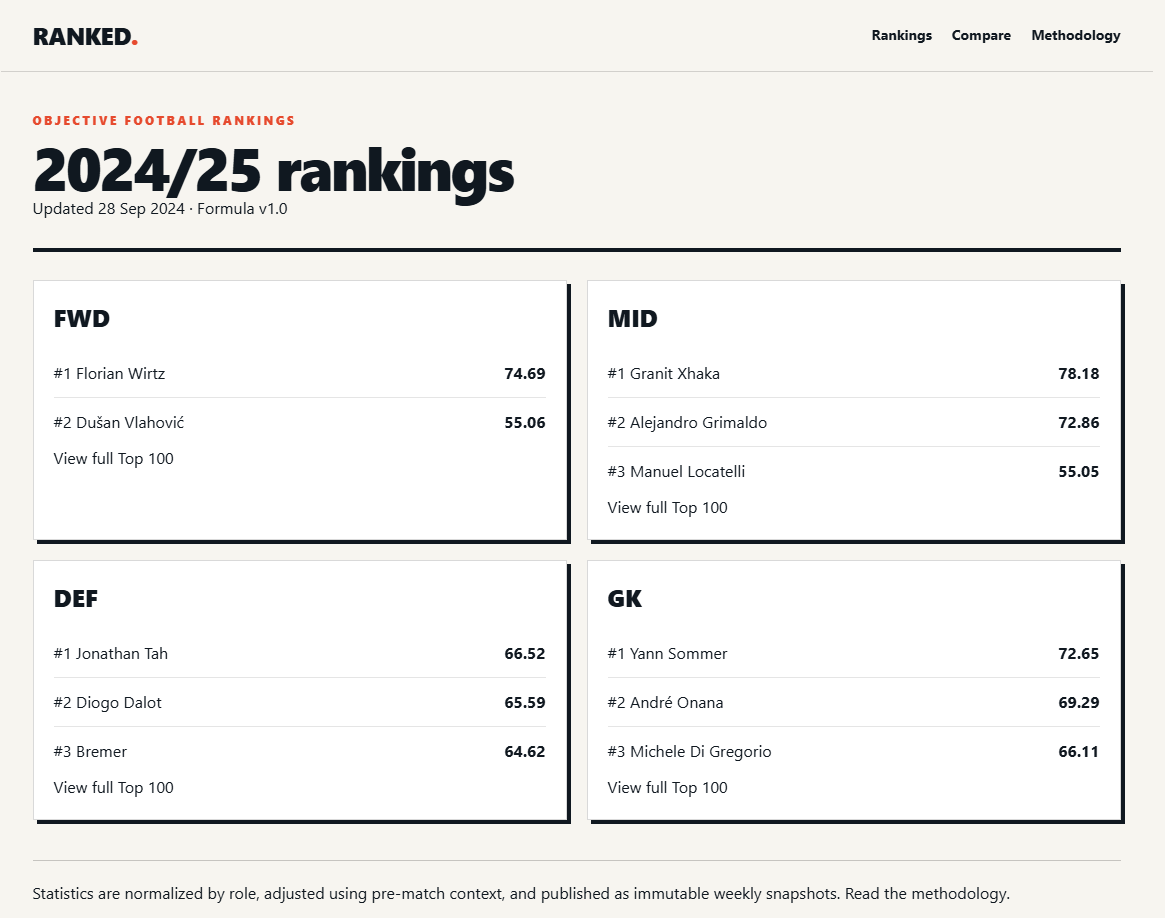
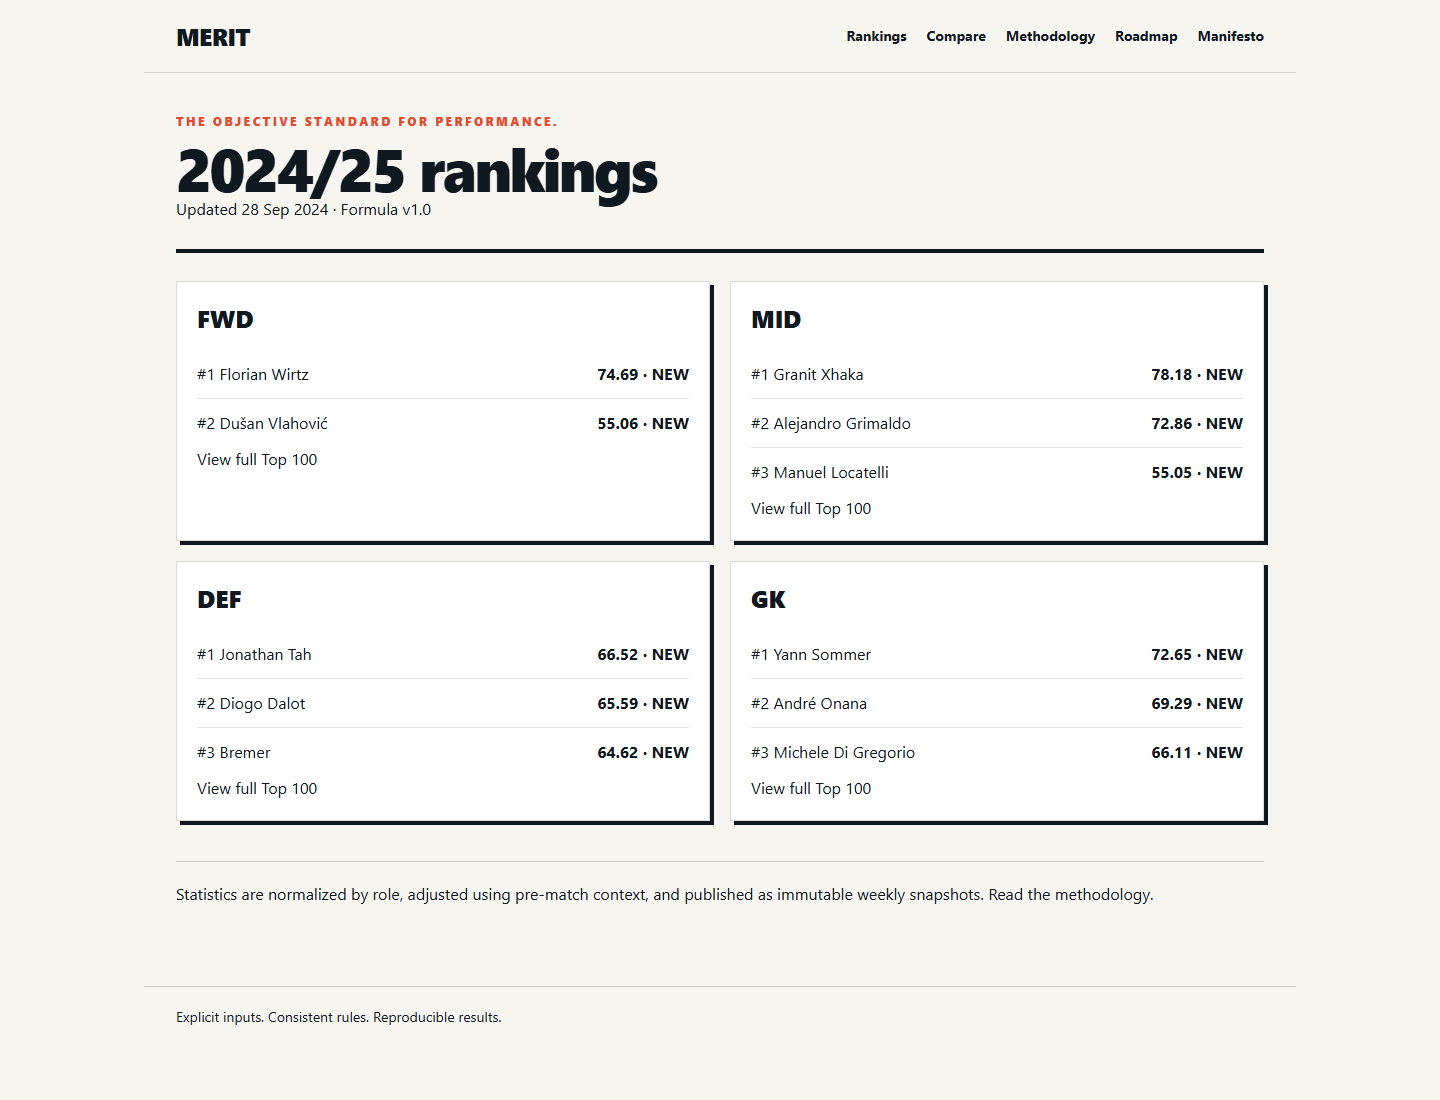
Rename project and site to Merit

diff --git a/templates/core/home.html b/templates/core/home.html
@@ -1,1 +1,1 @@
-{% extends 'base.html' %}{% block content %}<section class="intro"><p class="eyebrow">Objective football rankings</p><h1>{% if snapshot %}{{ snapshot.season.name }} rankings{% else %}Current rankings{% endif %}</h1>{% if snapshot %}<p>Updated {{ snapshot.cutoff_at|date:'j M Y' }} · Formula v{{ snapshot.formula.version }}</p>{% endif %}</section><div class="grid">{% for position,items in groups.items %}<section class="card"><h2>{{ position }}</h2>{% if items %}<ol>{% for entry in items %}<li><span>#{{ entry.rank }} <a href="{% url 'player_detail' entry.player.slug %}">{{ entry.player.name }}</a></span><strong>{{ entry.score|floatformat:2 }} · {% include 'components/movement.html' %}</strong></li>{% endfor %}</ol><a href="{% if position == 'FWD' %}{% url 'ranking' 'attackers' %}{% elif position == 'MID' %}{% url 'ranking' 'midfielders' %}{% elif position == 'DEF' %}{% url 'ranking' 'defenders' %}{% else %}{% url 'ranking' 'goalkeepers' %}{% endif %}">View full Top 100</a>{% else %}<p>Rankings are being prepared for this season.</p>{% endif %}</section>{% endfor %}</div><p class="method-note">Statistics are normalized by role, adjusted using pre-match context, and published as immutable weekly snapshots. <a href="{% url 'methodology' %}">Read the methodology</a>.</p>{% endblock %}
+{% extends 'base.html' %}{% block content %}<section class="intro"><p class="eyebrow">The Objective Standard for Performance.</p><h1>{% if snapshot %}{{ snapshot.season.name }} rankings{% else %}Current rankings{% endif %}</h1>{% if snapshot %}<p>Updated {{ snapshot.cutoff_at|date:'j M Y' }} · Formula v{{ snapshot.formula.version }}</p>{% endif %}</section><div class="grid">{% for position,items in groups.items %}<section class="card"><h2>{{ position }}</h2>{% if items %}<ol>{% for entry in items %}<li><span>#{{ entry.rank }} <a href="{% url 'player_detail' entry.player.slug %}">{{ entry.player.name }}</a></span><strong>{{ entry.score|floatformat:2 }} · {% include 'components/movement.html' %}</strong></li>{% endfor %}</ol><a href="{% if position == 'FWD' %}{% url 'ranking' 'attackers' %}{% elif position == 'MID' %}{% url 'ranking' 'midfielders' %}{% elif position == 'DEF' %}{% url 'ranking' 'defenders' %}{% else %}{% url 'ranking' 'goalkeepers' %}{% endif %}">View full Top 100</a>{% else %}<p>Rankings are being prepared for this season.</p>{% endif %}</section>{% endfor %}</div><p class="method-note">Statistics are normalized by role, adjusted using pre-match context, and published as immutable weekly snapshots. <a href="{% url 'methodology' %}">Read the methodology</a>.</p>{% endblock %}

diff --git a/templates/base.html b/templates/base.html
@@ -1,1 +1,1 @@
-{% load static %}<!doctype html><html lang="en"><head><meta charset="utf-8"><meta name="viewport" content="width=device-width,initial-scale=1"><title>{{ page_title|default:'Ranked' }}</title><meta name="description" content="Transparent, reproducible football player rankings."><link rel="canonical" href="{{ request.build_absolute_uri }}"><meta property="og:title" content="{{ page_title|default:'Ranked' }}"><meta property="og:description" content="Objective weekly football rankings"><link rel="stylesheet" href="{% static 'dist/app.css' %}"><script src="{% static 'js/htmx.min.js' %}" defer></script></head><body><a class="skip" href="#main">Skip to content</a>{% include 'components/header.html' %}<main id="main" class="shell">{% block content %}{% endblock %}</main><footer class="footer">Explicit inputs. Consistent rules. Reproducible results.</footer></body></html>
+{% load static %}<!doctype html><html lang="en"><head><meta charset="utf-8"><meta name="viewport" content="width=device-width,initial-scale=1"><title>{{ page_title|default:'Merit' }}</title><meta name="description" content="The Objective Standard for Performance."><link rel="canonical" href="{{ request.build_absolute_uri }}"><meta property="og:title" content="{{ page_title|default:'Merit' }}"><meta property="og:description" content="The Objective Standard for Performance."><link rel="stylesheet" href="{% static 'dist/app.css' %}"><script src="{% static 'js/htmx.min.js' %}" defer></script></head><body><a class="skip" href="#main">Skip to content</a>{% include 'components/header.html' %}<main id="main" class="shell">{% block content %}{% endblock %}</main><footer class="footer">Explicit inputs. Consistent rules. Reproducible results.</footer></body></html>

diff --git a/templates/components/header.html b/templates/components/header.html
@@ -1,1 +1,1 @@
-<header class="header"><a class="brand" href="{% url 'home' %}">RANKED<span>.</span></a><nav aria-label="Main navigation"><a href="{% url 'ranking_index' %}">Rankings</a><a href="{% url 'compare' %}">Compare</a><a href="{% url 'methodology' %}">Methodology</a><a href="{% url 'roadmap' %}">Roadmap</a><a href="{% url 'manifesto' %}">Manifesto</a></nav></header>
+<header class="header"><a class="brand" href="{% url 'home' %}">MERIT</a><nav aria-label="Main navigation"><a href="{% url 'ranking_index' %}">Rankings</a><a href="{% url 'compare' %}">Compare</a><a href="{% url 'methodology' %}">Methodology</a><a href="{% url 'roadmap' %}">Roadmap</a><a href="{% url 'manifesto' %}">Manifesto</a></nav></header>

diff --git a/tests/test_pipeline_views.py b/tests/test_pipeline_views.py
@@ -40,7 +40,8 @@ def test_public_pages_and_htmx(pipeline):
     assert b'hx-push-url="true"' in fragment.content
 
     manifesto = client.get("/manifesto/")
-    assert b"RANKED. Manifesto" in manifesto.content
+    assert b"Merit Manifesto" in manifesto.content
+    assert b"The Objective Standard for Performance." in manifesto.content
     assert b"You should never have to wonder how the winner was chosen." in manifesto.content
     player = client.get("/players/demo-player-1/")
     assert b"Recent ranking position over time" in player.content
@@ -52,6 +53,8 @@ def test_home_shows_ranking_movement_next_to_score(pipeline):
     snapshot.entries.filter(pk=entry.pk).update(previous_rank=entry.rank+2,movement=2)
     cache.clear()
     content=Client().get("/").content
+    assert b">MERIT<" in content
+    assert b"The Objective Standard for Performance." in content
     assert b'aria-label="Up 2 places"' in content
 
 def test_publish_is_immutable_without_force(pipeline):

diff --git a/apps/core/views.py b/apps/core/views.py
@@ -12,7 +12,7 @@ from apps.scoring.models import ScoringFormula
 @cache_page(300)
 def home(request):
     snapshot=latest_snapshot(); groups={p:entries(snapshot,p,5) for p in (Position.FWD,Position.MID,Position.DEF,Position.GK)}
-    return render(request,"core/home.html",{"snapshot":snapshot,"groups":groups,"page_title":"Objective Football Rankings"})
+    return render(request,"core/home.html",{"snapshot":snapshot,"groups":groups,"page_title":"Merit — The Objective Standard for Performance."})
 def health(request):
     with connection.cursor() as cursor: cursor.execute("SELECT 1"); cursor.fetchone()
     return JsonResponse({"status":"ok"})

diff --git a/docs/manifest.md b/docs/manifest.md
@@ -1,4 +1,6 @@
-# RANKED. Manifesto
+# Merit Manifesto
+
+**The Objective Standard for Performance.**
 
 ## Football deserves a better way to answer one question:
 
@@ -74,7 +76,7 @@ Every ranking begins with performance.
 
 ## No votes
 
-RANKED. is not decided by journalists.
+Merit is not decided by journalists.
 
 Not by captains.
 
@@ -106,7 +108,7 @@ A defender should not need goals to receive recognition.
 
 A midfielder should not be judged by the same criteria as a winger.
 
-So RANKED. does not force every footballer into one universal leaderboard.
+So Merit does not force every footballer into one universal leaderboard.
 
 Players compete within their role:
 
@@ -130,7 +132,7 @@ A Champions League knockout match is not identical to every domestic fixture.
 
 Performance exists in context.
 
-RANKED. accounts for that context using explicit rules.
+Merit accounts for that context using explicit rules.
 
 Opponent strength matters.
 
@@ -184,7 +186,7 @@ You should never have to guess what it is.
 
 A ranking without an explanation is just another opinion.
 
-For every player, RANKED. should be able to show:
+For every player, Merit should be able to show:
 
 * what happened on the pitch;
 * which statistics were used;
@@ -201,7 +203,7 @@ It is the result of the explanation.
 
 ## No black boxes
 
-RANKED. should never depend on a score that cannot itself be explained.
+Merit should never depend on a score that cannot itself be explained.
 
 A third-party player rating does not decide the ranking.
 
@@ -225,7 +227,7 @@ Some metrics may be unavailable.
 
 Some providers may correct data after publication.
 
-RANKED. will not quietly convert missing information into poor performance.
+Merit will not quietly convert missing information into poor performance.
 
 Coverage limitations should remain visible.
 

diff --git a/README.md b/README.md
@@ -1,12 +1,14 @@
-# Objective Football Player Rankings
+# Merit
+
+**The Objective Standard for Performance.**
 
 A server-rendered Django MVP that publishes explainable weekly GK, DEF, MID, and FWD rankings from normalized fixture statistics. Scores are deterministic, formula-versioned, and precomputed; public requests never contact the football provider or calculate rankings.
 
-![RANKED. homepage showing the 2024/25 football player rankings](docs/homepage.png)
+![Merit homepage showing the 2024/25 football player rankings](docs/homepage.png)
 
 ## Vision
 
-RANKED. exists to make football player rankings understandable and reproducible. It turns match statistics into weekly, position-specific rankings using explicit inputs, consistent rules, and versioned formulas—without human votes, opaque provider ratings, or AI-generated scores. The goal is not to remove judgment from football analysis, but to make every judgment in the model visible and open to scrutiny.
+Merit exists to make football player rankings understandable and reproducible. It turns match statistics into weekly, position-specific rankings using explicit inputs, consistent rules, and versioned formulas—without human votes, opaque provider ratings, or AI-generated scores. The goal is not to remove judgment from football analysis, but to make every judgment in the model visible and open to scrutiny.
 
 Read the full [project manifesto](docs/manifest.md).
 
